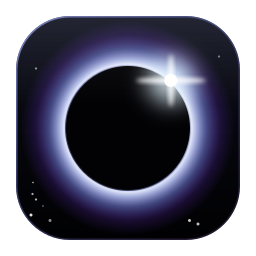
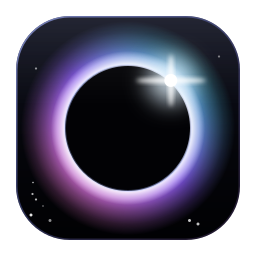
Eclipse's corona in colour: Eclipse, Nightfall and Sunrise
The eclipse icon's corona now runs in a gradient from the star round: Eclipse (teal, violet and
pink) is the main icon (builds, the window and About, the Flatpak), and the same eclipse in two
more colours joins the choices: Nightfall (cyan, indigo, violet) and Sunrise (gold, pink, violet),
named in all eleven languages. They replace the white eclipse; Aurora, Comet and Galaxy stay.

Changed region(s): [[0.125, 0.125, 0.875, 0.875]]

diff --git a/ui/settings/settings.html b/ui/settings/settings.html
@@ -148,6 +148,8 @@
       <p class="hint" data-l10n-id="settings-how-astrelle-shows-up-in">How Astrelle shows up in your dock and app list.</p>
       <div class="app-icons" data-pref="icon">
         <button class="app-icon" data-value="eclipse"><img src="chrome://aether/content/icons/eclipse.svg" alt=""><span data-l10n-id="settings-eclipse">Eclipse</span></button>
+        <button class="app-icon" data-value="nightfall"><img src="chrome://aether/content/icons/nightfall.svg" alt=""><span data-l10n-id="settings-icon-nightfall">Nightfall</span></button>
+        <button class="app-icon" data-value="sunrise"><img src="chrome://aether/content/icons/sunrise.svg" alt=""><span data-l10n-id="settings-icon-sunrise">Sunrise</span></button>
         <button class="app-icon" data-value="aurora"><img src="chrome://aether/content/icons/aurora.svg" alt=""><span data-l10n-id="settings-aurora">Aurora</span></button>
         <button class="app-icon" data-value="comet"><img src="chrome://aether/content/icons/comet.svg" alt=""><span data-l10n-id="settings-comet">Comet</span></button>
         <button class="app-icon" data-value="galaxy"><img src="chrome://aether/content/icons/galaxy.svg" alt=""><span data-l10n-id="settings-galaxy">Galaxy</span></button>

diff --git a/ui/welcome/welcome.html b/ui/welcome/welcome.html
@@ -73,6 +73,8 @@
         <p class="lead" data-l10n-id="welcome-it-s-how-astrelle-shows">It's how Astrelle shows up in your dock and app list.</p>
         <div class="app-icons" data-pref="icon">
           <button class="app-icon" data-value="eclipse"><img src="../icons/eclipse.svg" alt=""><span data-l10n-id="welcome-eclipse">Eclipse</span></button>
+          <button class="app-icon" data-value="nightfall"><img src="../icons/nightfall.svg" alt=""><span data-l10n-id="welcome-icon-nightfall">Nightfall</span></button>
+          <button class="app-icon" data-value="sunrise"><img src="../icons/sunrise.svg" alt=""><span data-l10n-id="welcome-icon-sunrise">Sunrise</span></button>
           <button class="app-icon" data-value="aurora"><img src="../icons/aurora.svg" alt=""><span data-l10n-id="welcome-aurora">Aurora</span></button>
           <button class="app-icon" data-value="comet"><img src="../icons/comet.svg" alt=""><span data-l10n-id="welcome-comet">Comet</span></button>
           <button class="app-icon" data-value="galaxy"><img src="../icons/galaxy.svg" alt=""><span data-l10n-id="welcome-galaxy">Galaxy</span></button>
